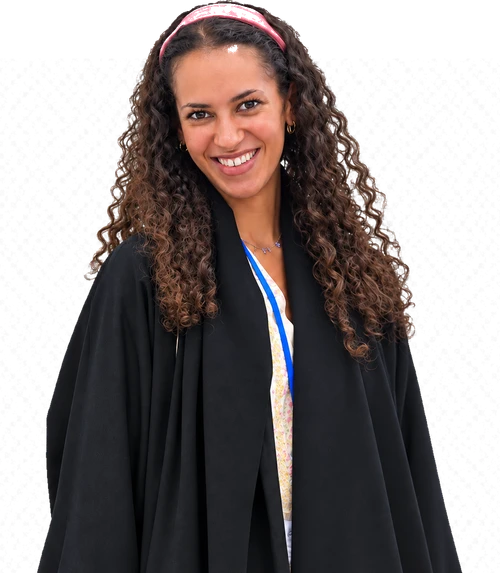
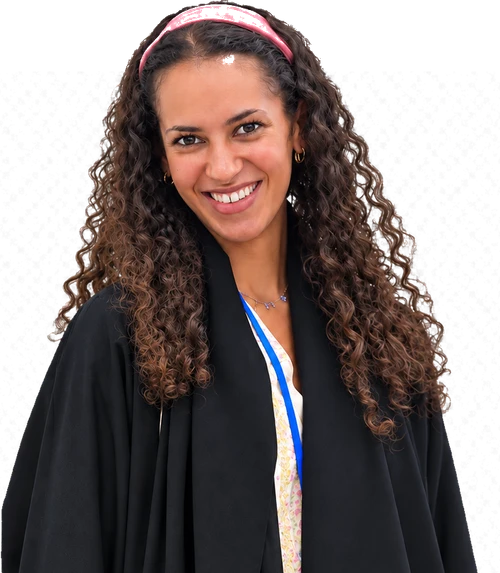
Bio pop-ups reuse the card cut-outs on their block colours
Modal photos now show the same cut-out as the grid card, sitting on
that card's colour (picked up from the clicked card's --blk), bottom-
anchored - the pop-up reads as a bigger version of the card. Applied on
team page and homepage. Ghalia's cut-out zoomed ~18% to match the
row's head scale.

Claude-Session: https://claude.ai/code/session_01CBgqScbhJyaaDiTg7zStd2

diff --git a/team.html b/team.html
@@ -90,7 +90,7 @@
         <span class="rl">KSA Chief of Staff</span>
       </button>
       <button class="tcard mat" type="button" data-i="4" style="--blk:#d6ad64;--blkD:#cda254">
-        <span class="box"><img src="assets/ghalia_cutout.webp?v=4" alt="Ghalia Badokhon"/></span>
+        <span class="box"><img src="assets/ghalia_cutout.webp?v=5" alt="Ghalia Badokhon"/></span>
         <span class="nm">Ghalia Badokhon</span>
         <span class="rl">Jeddah Lead</span>
       </button>
@@ -195,31 +195,31 @@
    team writes fuller ones. */
 var TEAM=[
   {name:"Gloria Tsang", role:"Founder & Executive Director", city:"Beijing",
-   photo:"assets/GloriaHeadshot2.jpeg", link:"https://www.linkedin.com/in/g-tsang/", tier:"core",
+   photo:"assets/gloria_cutout.webp", link:"https://www.linkedin.com/in/g-tsang/", tier:"core",
    bio:"Gloria leads SGYN with 8+ years of experience in global youth advocacy, recognised by organisations including WFUNA and Gulf Intelligence, which named her one of the Top 100 Sustainability Voices in the Middle East. Her professional experience spans fintech at Morgan Stanley in NYC, and various industries across the GCC, Hong Kong, and Southeast Asia. She's currently a Yenching Scholar at Peking University, furthering her research on China-MENA relations, Gulf geopolitics and tech cooperation."},
   {name:"Abdulla AlHemeiri", role:"Deputy Director", city:"United Arab Emirates",
-   photo:"assets/abdulla_picture.jpg", link:"https://www.linkedin.com/in/abdulla-alhemeiri-b46292215", tier:"core",
+   photo:"assets/abdulla_cutout.webp", link:"https://www.linkedin.com/in/abdulla-alhemeiri-b46292215", tier:"core",
    bio:"Abdulla is one of the few Emirati professionals with deep on-the-ground experience on both sides of the China-Gulf relationship. He joined SGYN's leadership team as a Yenching Scholar at Peking University, studying Economics and Management and was the first GCC national admitted to the programme. His research examines China's economic reach into the Gulf through the UAE as a strategic intermediary. He also previously served as a Political Analyst at the UAE Embassy in Beijing."},
   {name:"Huayi Shen", role:"Head of Programs & Partnerships", city:"Saudi Arabia",
-   photo:"assets/huayi_headshot.JPG", link:"https://www.linkedin.com/in/huayishen/", tier:"core",
+   photo:"assets/huayi_cutout.webp", link:"https://www.linkedin.com/in/huayishen/", tier:"core",
    bio:"Huayi designed and leads SGYN's LAB programme and oversees partnerships across China and Saudi Arabia. He holds a degree in Arabic with studies at UIBE, Cairo University, and AUC, and has experience in communications and media through internships at China Media Group and the UIBE Media Center. Based in Saudi Arabia, he works in logistics for a Chinese-Saudi joint venture. He also founded one of RedNote's growing communities for Chinese expats in the Gulf."},
   {name:"Salmeen Binmahfooz", role:"KSA Chief of Staff", city:"Dhahran",
-   photo:"assets/salmeen_headshot_2.JPG", link:"https://www.linkedin.com/in/salmeen-binmahfooz-84b046219/", tier:"lead",
+   photo:"assets/salmeen_cutout.webp", link:"https://www.linkedin.com/in/salmeen-binmahfooz-84b046219/", tier:"lead",
    bio:"Salmeen has been at the centre of SGYN's Saudi operations since the beginning — co-organising the network's first events in the Kingdom and building its entire digital infrastructure from the ground up. He studies Management Information Systems at KFUPM. Outside of SGYN, he's a former Youth Brazilian Jiu-Jitsu World Champion and competes with the Saudi Dodgeball Federation."},
   {name:"Ghalia Badokhon", role:"Jeddah Lead", city:"Jeddah",
-   photo:"assets/ghalia_headshot.jpg", link:"https://www.linkedin.com/in/galiah-badokhon-648659202", tier:"lead",
+   photo:"assets/ghalia_cutout.webp?v=5", link:"https://www.linkedin.com/in/galiah-badokhon-648659202", tier:"lead",
    bio:"Ghalia leads SGYN's on-the-ground presence in Jeddah, driving outreach, event logistics, and community organising in the city. She is currently a Computer Science student at Effat University, with a background in graphic design and social media."},
   {name:"Cindy Li", role:"Shanghai Lead", city:"Shanghai",
-   photo:"assets/cindy_pfp_2.jpeg", link:"https://www.linkedin.com/in/itscindyli/", tier:"lead",
+   photo:"assets/cindy_cutout.webp", link:"https://www.linkedin.com/in/itscindyli/", tier:"lead",
    bio:"Cindy leads the founding city's community — where SGYN began in December 2024 — and its events across Shanghai."},
   {name:"Bowen Gu", role:"NYC Lead", city:"New York",
-   photo:"assets/Bowen_pfp.jpg", link:"https://www.linkedin.com/in/bowengucu/", tier:"lead",
+   photo:"assets/bowen_cutout.webp", link:"https://www.linkedin.com/in/bowengucu/", tier:"lead",
    bio:"Bowen handles SGYN's operations in NYC, including the annual Sino-Gulf Youth Dialogue in partnership with the UAE Mission to the United Nations. He is an investment banker based between New York and Shanghai, with prior experience at a PIF-affiliated private equity firm and as the founder of an e-commerce venture in Saudi Arabia. He holds a Master's from Columbia University and a Bachelor's from Central South University. Outside of finance, he's a musician and DJ."},
   {name:"Yasser Mejia", role:"Administrative Lead", city:"",
-   photo:"assets/yasser_mejia_headshot.jpeg", link:"", tier:"lead",
+   photo:"assets/yasser_cutout.webp", link:"", tier:"lead",
    bio:"Yasser is SGYN's Administrative Lead, keeping the network's operations, records, and coordination running behind the scenes."},
   {name:"Rakan Al-Shaibani", role:"SGC Advisory, Consultant", city:"",
-   photo:"assets/rakan_headshot_preferred.jpeg", link:"", tier:"lead",
+   photo:"assets/rakan_cutout.webp?v=2", link:"", tier:"lead",
    bio:"Rakan is a consultant with SGC Advisory, supporting the institutional work of the wider Sino-Gulf Collective."},
   {name:"Rahaf Al-Rozah", role:"Literary Salon Coordinator", city:"Jeddah",
    photo:"", link:"", tier:"lead",
@@ -229,15 +229,16 @@ var TEAM=[
 (function(){
   document.querySelectorAll('.tcard').forEach(function(btn){
     btn.addEventListener('click',function(){
-      var m=TEAM[+btn.dataset.i]; if(m)openBio(m);
+      var m=TEAM[+btn.dataset.i]; if(m)openBio(m, btn.style.getPropertyValue('--blk'));
     });
   });
 
   var veil=document.getElementById('veil');
-  function openBio(m){
+  function openBio(m, blk){
     var bi=document.getElementById('bImg');
     bi.src=m.photo; bi.alt=m.name;
     bi.style.display=m.photo?'':'none';
+    bi.style.backgroundColor=m.photo?(blk||''):'';
     document.getElementById('bName').textContent=m.name;
     document.getElementById('bRole').textContent=m.role;
     document.getElementById('bCity').textContent=m.city;

diff --git a/index.html b/index.html
@@ -318,20 +318,22 @@
 (function(){
   var CORE=[
     {name:"Gloria Tsang", role:"Founder & Executive Director", city:"Beijing",
-     photo:"assets/GloriaHeadshot2.jpeg", link:"https://www.linkedin.com/in/g-tsang/",
+     photo:"assets/gloria_cutout.webp", link:"https://www.linkedin.com/in/g-tsang/",
      bio:"Gloria leads SGYN with 8+ years of experience in global youth advocacy, recognised by organisations including WFUNA and Gulf Intelligence, which named her one of the Top 100 Sustainability Voices in the Middle East. Her professional experience spans fintech at Morgan Stanley in NYC, and various industries across the GCC, Hong Kong, and Southeast Asia. She's currently a Yenching Scholar at Peking University, furthering her research on China-MENA relations, Gulf geopolitics and tech cooperation."},
     {name:"Abdulla AlHemeiri", role:"Deputy Director", city:"United Arab Emirates",
-     photo:"assets/abdulla_picture.jpg", link:"https://www.linkedin.com/in/abdulla-alhemeiri-b46292215",
+     photo:"assets/abdulla_cutout.webp", link:"https://www.linkedin.com/in/abdulla-alhemeiri-b46292215",
      bio:"Abdulla is one of the few Emirati professionals with deep on-the-ground experience on both sides of the China-Gulf relationship. He joined SGYN's leadership team as a Yenching Scholar at Peking University, studying Economics and Management and was the first GCC national admitted to the programme. His research examines China's economic reach into the Gulf through the UAE as a strategic intermediary. He also previously served as a Political Analyst at the UAE Embassy in Beijing."},
     {name:"Huayi Shen", role:"Head of Programs & Partnerships", city:"Saudi Arabia",
-     photo:"assets/huayi_headshot.JPG", link:"https://www.linkedin.com/in/huayishen/",
+     photo:"assets/huayi_cutout.webp", link:"https://www.linkedin.com/in/huayishen/",
      bio:"Huayi designed and leads SGYN's LAB programme and oversees partnerships across China and Saudi Arabia. He holds a degree in Arabic with studies at UIBE, Cairo University, and AUC, and has experience in communications and media through internships at China Media Group and the UIBE Media Center. Based in Saudi Arabia, he works in logistics for a Chinese-Saudi joint venture. He also founded one of RedNote's growing communities for Chinese expats in the Gulf."}
   ];
   var veil=document.getElementById('veil');
   document.querySelectorAll('.tcard').forEach(function(btn){
     btn.addEventListener('click',function(){
       var m=CORE[+btn.dataset.i]; if(!m)return;
-      document.getElementById('bImg').src=m.photo;
+      var bi=document.getElementById('bImg');
+      bi.src=m.photo;
+      bi.style.backgroundColor=btn.style.getPropertyValue('--blk')||'';
       document.getElementById('bImg').alt=m.name;
       document.getElementById('bName').textContent=m.name;
       document.getElementById('bRole').textContent=m.role;

diff --git a/css/main.css b/css/main.css
@@ -362,7 +362,7 @@ a.idx-row:hover .desc .go-hint{transform:translateX(5px)}
 @media(max-width:760px){.tgrid.four{grid-template-columns:repeat(2,1fr);row-gap:40px}}
 /* bio modal layout (uses .modal-veil/.modal base) */
 .bio-grid{display:grid;grid-template-columns:230px 1fr;gap:clamp(18px,3vw,30px);align-items:start}
-.bio-grid img{width:100%;aspect-ratio:3/3.5;object-fit:cover;border-radius:16px}
+.bio-grid img{width:100%;aspect-ratio:3/3.5;object-fit:cover;object-position:50% 100%;border-radius:16px}
 .bio-grid .role-line{font-family:var(--disp);font-weight:700;color:var(--gold-ink);font-size:15px;margin-bottom:2px}
 .bio-grid .city-line{font-size:13.5px;color:var(--mut);margin-bottom:14px}
 .bio-grid .lk{display:inline-block;margin-top:14px;font-family:var(--disp);font-weight:700;font-size:14px;color:var(--navy);border-bottom:2px solid var(--gold)}
